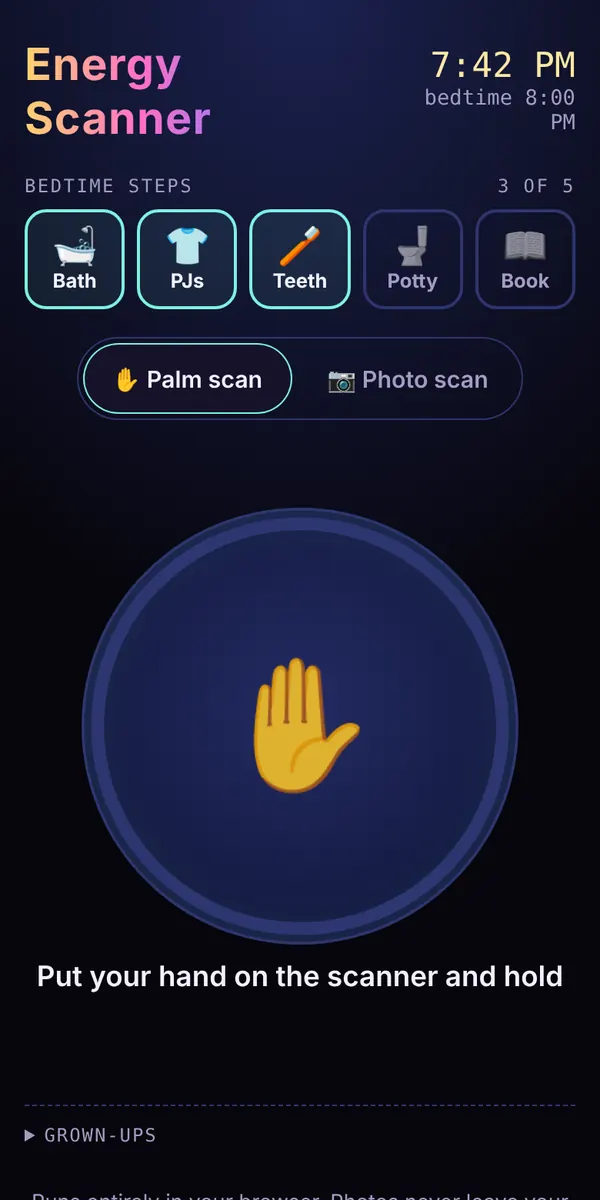
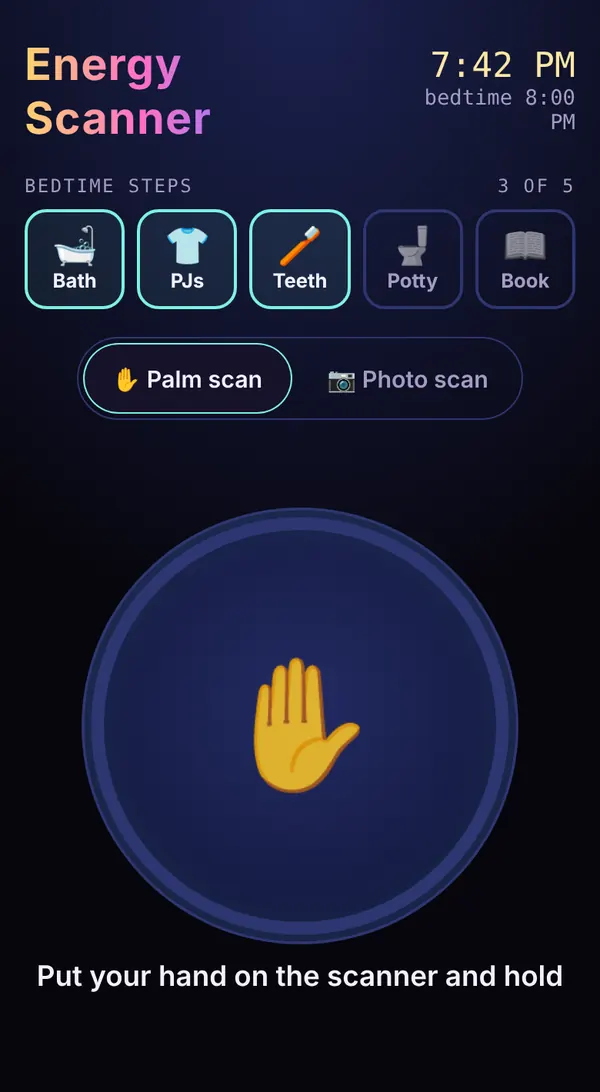
WEB-M4.7 round 1: shot beside the facts on desktop, caption, re-crop, 44px name and demo back link
Claude-Session: https://claude.ai/code/session_011au172tDRCb1uXjCPLZopx

diff --git a/role-radar.html b/role-radar.html
@@ -28,19 +28,18 @@
 <nav class="top" aria-label="Main"><a href="index.html">Work</a><a href="pm-tools.html">How I work</a><a href="resume.html">Resume</a><a href="about.html">About</a></nav>
 </div></header>
 <main class="wrap" id="main">
-<div class="read">
+<div class="hero has-shot"><div class="read">
 <p class="eyebrow">AI tool · beta</p>
 <h1>Role Radar</h1>
 <p class="lede">Most of a job search is sifting. I built a radar that reads the boards every weekday and tells me, with reasons, which roles are worth my time, so I can say no faster.</p>
 <div class="cta"><a class="btn primary" href="demo/role-radar/">Try the live demo</a><a class="btn" href="https://github.com/holroydchase-afk/role-radar">View on GitHub</a></div>
-<figure class="shot"><img src="assets/shots/role-radar-phone.webp" width="300" height="600" alt="Role Radar on a phone, sample data: the New tab with a Senior Product Manager role scored 90, Strong, with the reason it fits." loading="lazy" decoding="async"></figure>
-</div>
-<div class="facts"><div class="fact"><b>~110</b><span>company job boards watched</span></div><div class="fact"><b>4</b><span>sources merged and de-duplicated</span></div><div class="fact"><b>0–100</b><span>fit score, each with a one-line reason</span></div><div class="fact"><b>By hand</b><span>every application is still my call</span></div></div>
+</div><figure class="shot"><img src="assets/shots/role-radar-phone.webp" width="300" height="600" alt="Role Radar on a phone, sample data: the New tab with a Senior Product Manager role scored 90, Strong, with the reason it fits." fetchpriority="high" decoding="async"><figcaption>The demo reads 7 sample boards. The real radar watches about 110.</figcaption></figure>
+<div class="facts"><div class="fact"><b>~110</b><span>company job boards watched</span></div><div class="fact"><b>4</b><span>sources merged and de-duplicated</span></div><div class="fact"><b>0–100</b><span>fit score, each with a one-line reason</span></div><div class="fact"><b>By hand</b><span>every application is still my call</span></div></div></div>
 <div class="read"><h2>How it works</h2><ul class="clean"><li>A scheduled agent scans company boards (Greenhouse, Ashby, Lever), ZipRecruiter, Himalayas and job-alert emails, and merges duplicates across sources.</li><li>It scores each role 0–100 against criteria I edit in one file (title, remote, comp floor, sectors, culture signals) and gives a one-line reason, so I can check its judgement instead of trusting a number.</li><li>One tracker holds every role, and the pipeline updates itself when an application is confirmed or closed.</li></ul><h2>Product decisions</h2><ul class="clean"><li><b>Explainable over clever.</b> Every score shows its reasons, and the criteria are plain text, so a wrong call is a one-line fix.</li><li><b>Precision, not volume.</b> The goal is fewer, better applications. The measure is how many top-scored roles turn into real conversations.</li><li><b>The human stays in the loop.</b> The radar finds and ranks. Reading the posting and applying stay with me.</li><li><b>One tracker, not three.</b> Status lived in three places and drifted, so I retired the old pipeline.</li><li><b>Cost-aware by design.</b> Big boards run three days a week, and the scan stops paging as soon as results stop being new.</li></ul><h2>Stack</h2><p>A single-page app on Claude with its own saved database, a scheduled agent that runs each weekday, and connectors for ZipRecruiter and email.</p><p class="note">The demo uses made-up jobs and companies, never real applications. Changes you make stay in your browser.</p>
 <p class="back"><a href="index.html">← All work</a></p></div>
 </main>
 <footer class="site"><div class="wrap">
-<span>© 2026 Chase Holroyd · Product manager · Charlotte, NC</span>
+<span>© 2026 Chase Holroyd · Staff product manager · Charlotte, NC</span>
 <span><a href="https://www.linkedin.com/in/chase-holroyd">LinkedIn</a> · <a href="https://github.com/holroydchase-afk">GitHub</a></span>
 </div></footer>
 </body>

diff --git a/energy-scanner.html b/energy-scanner.html
@@ -28,19 +28,18 @@
 <nav class="top" aria-label="Main"><a href="index.html">Work</a><a href="pm-tools.html">How I work</a><a href="resume.html">Resume</a><a href="about.html">About</a></nav>
 </div></header>
 <main class="wrap" id="main">
-<div class="read">
+<div class="hero has-shot"><div class="read">
 <p class="eyebrow">Family app · live</p>
 <h1>Energy Scanner</h1>
 <p class="lede">Bedtime was a nightly negotiation. What if a neutral machine said it was time, instead of me?</p>
 <div class="cta"><a class="btn primary" href="/energy-scanner/">Try the live app</a><a class="btn" href="https://github.com/holroydchase-afk/energy-scanner">View on GitHub</a></div>
-<figure class="shot"><img src="assets/shots/energy-scanner-phone.webp" width="300" height="600" alt="Energy Scanner on a phone at 7:42 PM: three of five bedtime steps done (bath, PJs, teeth) and the palm scanner ready." loading="lazy" decoding="async"></figure>
-</div>
-<div class="facts"><div class="fact"><b>Routine</b><span>steps first, scan as the finale</span></div><div class="fact"><b>2 scans</b><span>palm pad, or a photo with a live aura</span></div><div class="fact"><b>On-device</b><span>photos never leave the phone</span></div><div class="fact"><b>Grey</b><span>a grown-up switch makes every scan read sleepy</span></div></div>
+</div><figure class="shot"><img src="assets/shots/energy-scanner-phone.webp" width="300" height="546" alt="Energy Scanner on a phone at 7:42 PM: three of five bedtime steps done (bath, PJs, teeth) and the palm scanner ready." fetchpriority="high" decoding="async"></figure>
+<div class="facts"><div class="fact"><b>Routine</b><span>steps first, scan as the finale</span></div><div class="fact"><b>2 scans</b><span>palm pad, or a photo with a live aura</span></div><div class="fact"><b>On-device</b><span>photos never leave the phone</span></div><div class="fact"><b>Grey</b><span>a grown-up switch makes every scan read sleepy</span></div></div></div>
 <div class="read"><h2>The idea</h2><p>Kids tick off their bedtime steps (bath, PJs, teeth, potty, book), then scan. The reading is a color from Rainbow (way too much sparkle for sleeping) down to Grey (battery empty, time to recharge). A neutral "machine says so" authority takes the argument off the parent.</p><h2>Two ways to scan</h2><ul class="clean"><li><b>Palm scan:</b> press and hold the pad until the ring fills.</li><li><b>Photo scan:</b> take or upload a photo and the child's energy glows off them as an animated aura, softer and slower when sleepy, blazing at Rainbow. Grown-ups can save or share it.</li></ul><h2>Decisions</h2><ul class="clean"><li><b>Routine first.</b> A scan alone wears off, so it is the reward at the end of real steps, and it never reads Rainbow once every step is done.</li><li><b>Privacy before camera.</b> Kids' faces should never go to a cloud model, so the camera waited until the photo scan could run entirely on the phone: a person-segmentation model (MediaPipe) and a GPU shader. No server, no account, no tracking, and the page is locked so it can only talk to its own origin.</li></ul><h2>Status</h2><p>Live. It started as a palm-scan prototype my kids tested at bedtime; the photo scan came once it could stay on the phone.</p>
 <p class="back"><a href="index.html">← All work</a></p></div>
 </main>
 <footer class="site"><div class="wrap">
-<span>© 2026 Chase Holroyd · Product manager · Charlotte, NC</span>
+<span>© 2026 Chase Holroyd · Staff product manager · Charlotte, NC</span>
 <span><a href="https://www.linkedin.com/in/chase-holroyd">LinkedIn</a> · <a href="https://github.com/holroydchase-afk">GitHub</a></span>
 </div></footer>
 </body>

diff --git a/ccwatts.html b/ccwatts.html
@@ -28,19 +28,18 @@
 <nav class="top" aria-label="Main"><a href="index.html">Work</a><a href="pm-tools.html">How I work</a><a href="resume.html">Resume</a><a href="about.html">About</a></nav>
 </div></header>
 <main class="wrap" id="main">
-<div class="read">
+<div class="hero has-shot"><div class="read">
 <p class="eyebrow">Developer tool · playground live</p>
 <h1>ccwatts</h1>
 <p class="lede">AI use has an electricity cost, and almost nobody can see theirs. ccwatts reads your local Claude Code logs and estimates the energy your usage consumed.</p>
 <div class="cta"><a class="btn primary" href="/ccwatts/">Try the live playground</a><a class="btn" href="https://github.com/holroydchase-afk/ccwatts">View on GitHub</a></div>
-<figure class="shot"><img src="assets/shots/ccwatts-phone.webp" width="300" height="600" alt="The ccwatts playground on a phone, sample data: 8.5 kWh over 30 days, with a plausible range of 1.3 to 30.5 kWh." loading="lazy" decoding="async"></figure>
-</div>
-<div class="facts"><div class="fact"><b>Range</b><span>low / central / high, never one number</span></div><div class="fact"><b>Local</b><span>logs never leave your machine</span></div><div class="fact"><b>Sourced</b><span>every assumption cited</span></div><div class="fact"><b>Open</b><span>source on GitHub</span></div></div>
+</div><figure class="shot"><img src="assets/shots/ccwatts-phone.webp" width="300" height="600" alt="The ccwatts playground on a phone, sample data: 8.5 kWh over 30 days, with a plausible range of 1.3 to 30.5 kWh." fetchpriority="high" decoding="async"></figure>
+<div class="facts"><div class="fact"><b>Range</b><span>low / central / high, never one number</span></div><div class="fact"><b>Local</b><span>logs never leave your machine</span></div><div class="fact"><b>Sourced</b><span>every assumption cited</span></div><div class="fact"><b>Open</b><span>source on GitHub</span></div></div></div>
 <div class="read"><h2>Why it exists</h2><p>In 2026 climate scientist Zeke Hausfather estimated his own Claude Code use by hand, at about 170 kWh over eight weeks. Tools already counted tokens and cost. Nobody had packaged the energy side, so I did.</p><h2>Product calls</h2><ul class="clean"><li><b>Dev tool first.</b> I started on an enterprise carbon feed, found an established player already publishing a method, and pivoted to the individual developer.</li><li><b>Honest numbers.</b> Public estimates vary by an order of magnitude, so it always shows a range and a public methodology.</li><li><b>Privacy is the trust story.</b> No network calls, no telemetry, and no mobile app, because the data lives on laptops.</li></ul><h2>Stack</h2><p>A TypeScript monorepo with one shared core used by both the CLI (<code>npx ccwatts</code>) and an offline HTML dashboard.</p>
 <p class="back"><a href="index.html">← All work</a></p></div>
 </main>
 <footer class="site"><div class="wrap">
-<span>© 2026 Chase Holroyd · Product manager · Charlotte, NC</span>
+<span>© 2026 Chase Holroyd · Staff product manager · Charlotte, NC</span>
 <span><a href="https://www.linkedin.com/in/chase-holroyd">LinkedIn</a> · <a href="https://github.com/holroydchase-afk">GitHub</a></span>
 </div></footer>
 </body>

diff --git a/family-photos.html b/family-photos.html
@@ -28,19 +28,18 @@
 <nav class="top" aria-label="Main"><a href="index.html">Work</a><a href="pm-tools.html">How I work</a><a href="resume.html">Resume</a><a href="about.html">About</a></nav>
 </div></header>
 <main class="wrap" id="main">
-<div class="read">
+<div class="hero"><div class="read">
 <p class="eyebrow">Mobile app · building</p>
 <h1>A private family photo app</h1>
 <p class="lede">Five family group texts, two divorced-and-remarried families, grandpas on Android and everyone else on iPhone. I wanted one private place where each photo goes to exactly the people it's meant for.</p>
 
-
 </div>
-<div class="facts"><div class="fact"><b>Per post</b><span>audience you choose</span></div><div class="fact"><b>US</b><span>where photos are stored</span></div><div class="fact"><b>0</b><span>ads, trackers or AI training</span></div><div class="fact"><b>Test-first</b><span>every fix starts as a failing test</span></div></div>
+<div class="facts"><div class="fact"><b>Per post</b><span>audience you choose</span></div><div class="fact"><b>US</b><span>where photos are stored</span></div><div class="fact"><b>0</b><span>ads, trackers or AI training</span></div><div class="fact"><b>Test-first</b><span>every fix starts as a failing test</span></div></div></div>
 <div class="read"><h2>The problem</h2><p>Photos of our kids arrived late, compressed, or not at all, and every send meant worrying about who felt left out. Existing family apps didn't handle two equal households, and we don't post our kids publicly.</p><h2>What I built</h2><ul class="clean"><li><b>Groups and households:</b> share with Everyone, one side of the family, a single house, or an event like a birthday trip.</li><li><b>Privacy underneath:</b> database-level access rules, a post you can't see behaves as "not found", and photo location data is stripped on the phone.</li><li><b>Built for grandparents:</b> large text and tap targets, words under every icon, and invites that work from far away.</li></ul><h2>How I built it</h2><p>I ran it like a small team: a staff PM agent writes the spec, a QA agent writes failing tests, an engineer agent makes them pass, and privacy and UX reviewers sign off. By the second week there were 600+ backend checks and 340 app tests, and a co-parent data leak was caught in review before any real user saw it.</p><p>Stack: Expo / React Native, Supabase (Postgres with row-level security), US-hosted storage.</p><h2>What's next</h2><p>A private beta with about a dozen family members, mostly grandparents in West Virginia, targeted for late November.</p><p class="note">The code is private; beta starts late November.</p>
 <p class="back"><a href="index.html">← All work</a></p></div>
 </main>
 <footer class="site"><div class="wrap">
-<span>© 2026 Chase Holroyd · Product manager · Charlotte, NC</span>
+<span>© 2026 Chase Holroyd · Staff product manager · Charlotte, NC</span>
 <span><a href="https://www.linkedin.com/in/chase-holroyd">LinkedIn</a> · <a href="https://github.com/holroydchase-afk">GitHub</a></span>
 </div></footer>
 </body>

diff --git a/index.html b/index.html
@@ -50,7 +50,7 @@
 <div class="grid"><a class="card" href="role-radar.html"><span class="tag">Live demo</span><h3>Role Radar</h3><p>A job-search radar that reads about 110 company boards each weekday and scores every role 0–100 with a reason, so I spend my time on the right few.</p></a><a class="card" href="ccwatts.html"><span class="tag">Live playground</span><h3>ccwatts</h3><p>How much electricity does your AI coding agent use? A local tool that answers as an honest range, with every assumption sourced.</p></a><a class="card" href="pm-tools.html"><span class="tag">Live demos</span><h3>How I run product work</h3><p>Build Slate, a multi-board roadmap, persona checks enforced in CI, a decision log, and a team of AI agents with defined lanes.</p></a><a class="card" href="energy-scanner.html"><span class="tag">Live demo</span><h3>Energy Scanner</h3><p>A bedtime routine for kids that ends in an energy scan, by palm or by photo with an on-device aura, so the machine says it's bedtime instead of the parent.</p></a><a class="card" href="family-photos.html"><span class="tag">Private beta soon</span><h3>Family photo app</h3><p>Private photo sharing for split families and grandparents who avoid social media. Every post has a visible audience.</p></a></div>
 </main>
 <footer class="site"><div class="wrap">
-<span>© 2026 Chase Holroyd · Product manager · Charlotte, NC</span>
+<span>© 2026 Chase Holroyd · Staff product manager · Charlotte, NC</span>
 <span><a href="https://www.linkedin.com/in/chase-holroyd">LinkedIn</a> · <a href="https://github.com/holroydchase-afk">GitHub</a></span>
 </div></footer>
 </body>

diff --git a/assets/site.css b/assets/site.css
@@ -73,9 +73,15 @@ footer.site .wrap{display:flex;justify-content:space-between;gap:12px;flex-wrap:
   .resume .job{margin-top:8pt;break-inside:avoid}
   a{color:#000;text-decoration:none}
 }
-/* WEB-M4.7: phone screenshot under the lede */
+/* WEB-M4.7: phone screenshot under the lede. On wide screens it sits beside the text and facts, so the facts stay above the fold */
 .shot{margin:28px 0 0}
 .shot img{display:block;width:min(300px,78%);height:auto;border-radius:22px;border:1px solid var(--line);box-shadow:0 10px 30px rgba(0,0,0,.12)}
-/* UX-13: 44px tap targets for nav, footer and back links */
-nav.top a,footer.site a,.back a{display:inline-flex;align-items:center;min-height:44px}
+.shot figcaption{margin-top:10px;max-width:300px;font-size:14.5px;color:var(--muted)}
+@media(min-width:900px){.hero.has-shot{display:grid;grid-template-columns:minmax(0,1fr) 300px;grid-template-areas:"text shot" "facts shot";column-gap:56px;align-items:start}
+  .hero.has-shot>.read{grid-area:text}.hero.has-shot>.facts{grid-area:facts}
+  .hero.has-shot .shot{grid-area:shot;margin:0}.hero.has-shot .shot img{width:300px}}
+/* UX-13: 44px tap targets for the name, nav, footer, back and skip links */
+header.site .mark,nav.top a,footer.site a,.back a{display:inline-flex;align-items:center;min-height:44px}
+.skip:focus{min-height:44px;display:inline-flex;align-items:center}
+footer.site .wrap{align-items:center}
 .back{margin-top:40px}

diff --git a/demo/fake-db.js b/demo/fake-db.js
@@ -81,7 +81,7 @@
     b.setAttribute("role", "note");
     b.style.cssText = "position:sticky;top:0;z-index:9999;display:flex;flex-wrap:wrap;gap:6px 14px;align-items:center;" +
       "padding:8px 16px;background:#1F5C44;color:#fff;font:14px/1.4 -apple-system,BlinkMacSystemFont,'Segoe UI',sans-serif";
-    b.innerHTML = '<a href="' + (cfg.back || "../../index.html") + '" style="color:#fff;font-weight:600;text-decoration:none">← Chase Holroyd</a>' +
+    b.innerHTML = '<a href="' + (cfg.back || "../../index.html") + '" style="color:#fff;font-weight:600;text-decoration:none;display:inline-flex;align-items:center;min-height:44px">' + (cfg.backLabel || "← Chase Holroyd") + '</a>' +
       '<span style="opacity:.9">Demo · sample data, saved only in your browser</span>' +
       '<button type="button" style="margin-left:auto;font:inherit;color:#1F5C44;background:#fff;border:0;border-radius:6px;padding:4px 10px;cursor:pointer">Reset demo</button>';
     b.querySelector("button").onclick = () => { try { if (cfg.clearAll) localStorage.clear(); else localStorage.removeItem(KEY); } catch (_) {} location.reload(); };

diff --git a/404.html b/404.html
@@ -33,7 +33,7 @@
 <p class="lede">It may have moved. The <a href="index.html">work page</a> lists everything.</p></div>
 </main>
 <footer class="site"><div class="wrap">
-<span>© 2026 Chase Holroyd · Product manager · Charlotte, NC</span>
+<span>© 2026 Chase Holroyd · Staff product manager · Charlotte, NC</span>
 <span><a href="https://www.linkedin.com/in/chase-holroyd">LinkedIn</a> · <a href="https://github.com/holroydchase-afk">GitHub</a></span>
 </div></footer>
 </body>

diff --git a/demo/role-radar/seed.js b/demo/role-radar/seed.js
@@ -181,5 +181,5 @@ scoring:
   };
 
   window.DEMO_FULL = FULL;
-  window.DEMO = { back: "../../role-radar.html", key: FULL ? "role-radar-full" : "role-radar-v2", seed: { jobs, companies, recruiters, meta } };
+  window.DEMO = { back: "../../role-radar.html", backLabel: "← Back to Role Radar", key: FULL ? "role-radar-full" : "role-radar-v2", seed: { jobs, companies, recruiters, meta } };
 })();

diff --git a/about.html b/about.html
@@ -60,7 +60,7 @@
 </div>
 </main>
 <footer class="site"><div class="wrap">
-<span>© 2026 Chase Holroyd · Product manager · Charlotte, NC</span>
+<span>© 2026 Chase Holroyd · Staff product manager · Charlotte, NC</span>
 <span><a href="https://www.linkedin.com/in/chase-holroyd">LinkedIn</a> · <a href="https://github.com/holroydchase-afk">GitHub</a></span>
 </div></footer>
 </body>

diff --git a/pm-tools.html b/pm-tools.html
@@ -50,7 +50,7 @@
 </div>
 </main>
 <footer class="site"><div class="wrap">
-<span>© 2026 Chase Holroyd · Product manager · Charlotte, NC</span>
+<span>© 2026 Chase Holroyd · Staff product manager · Charlotte, NC</span>
 <span><a href="https://www.linkedin.com/in/chase-holroyd">LinkedIn</a> · <a href="https://github.com/holroydchase-afk">GitHub</a></span>
 </div></footer>
 </body>

diff --git a/resume.html b/resume.html
@@ -43,7 +43,7 @@
 </div>
 </main>
 <footer class="site"><div class="wrap">
-<span>© 2026 Chase Holroyd · Product manager · Charlotte, NC</span>
+<span>© 2026 Chase Holroyd · Staff product manager · Charlotte, NC</span>
 <span><a href="https://www.linkedin.com/in/chase-holroyd">LinkedIn</a> · <a href="https://github.com/holroydchase-afk">GitHub</a></span>
 </div></footer>
 </body>
